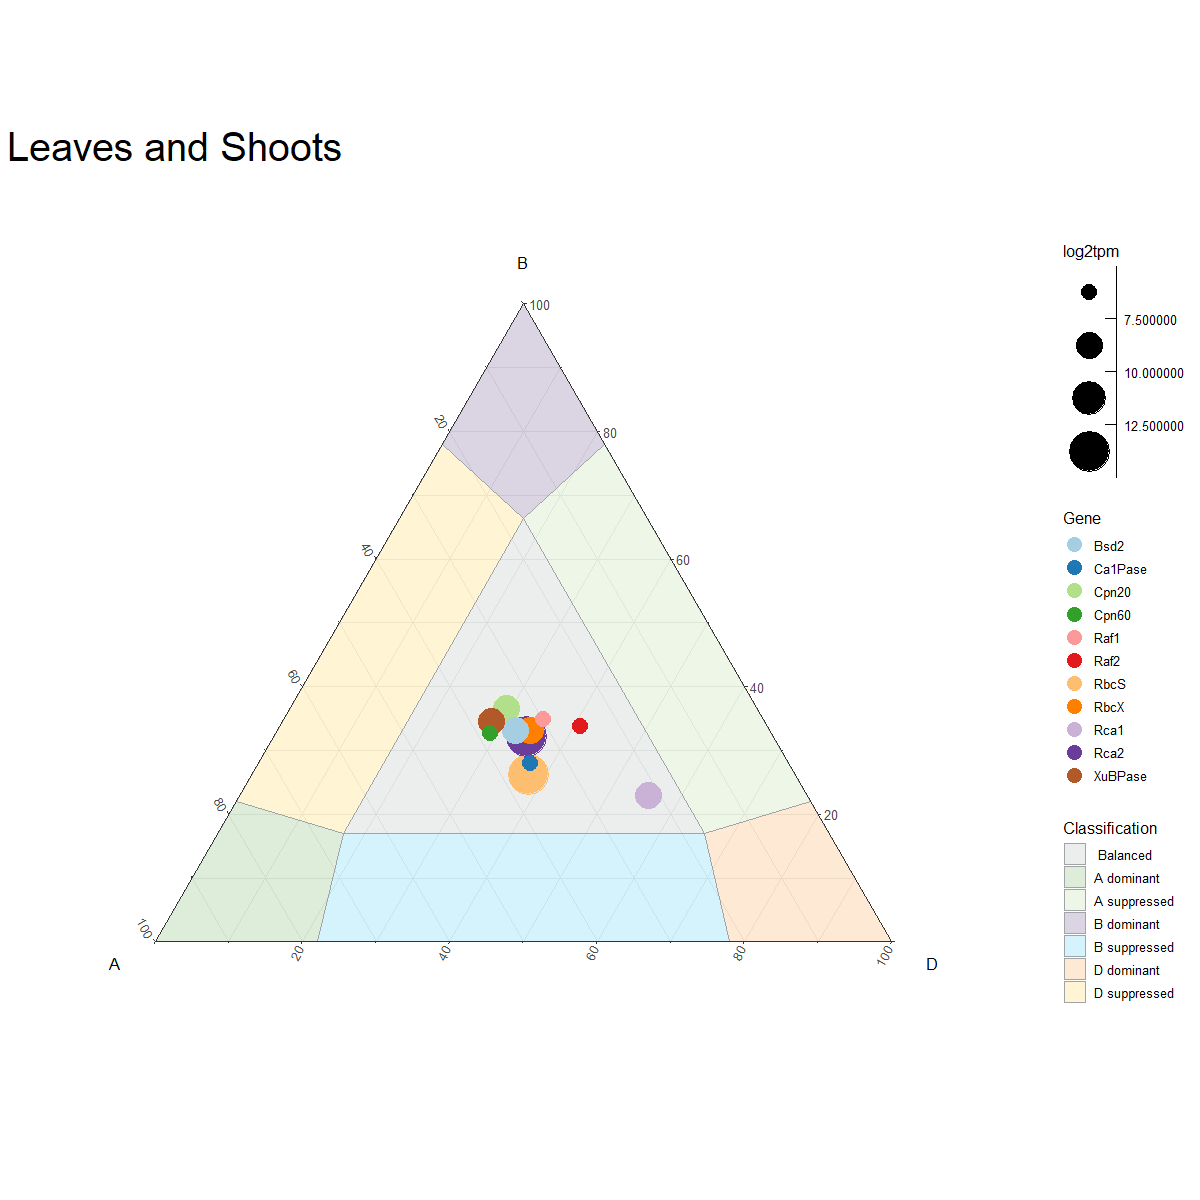
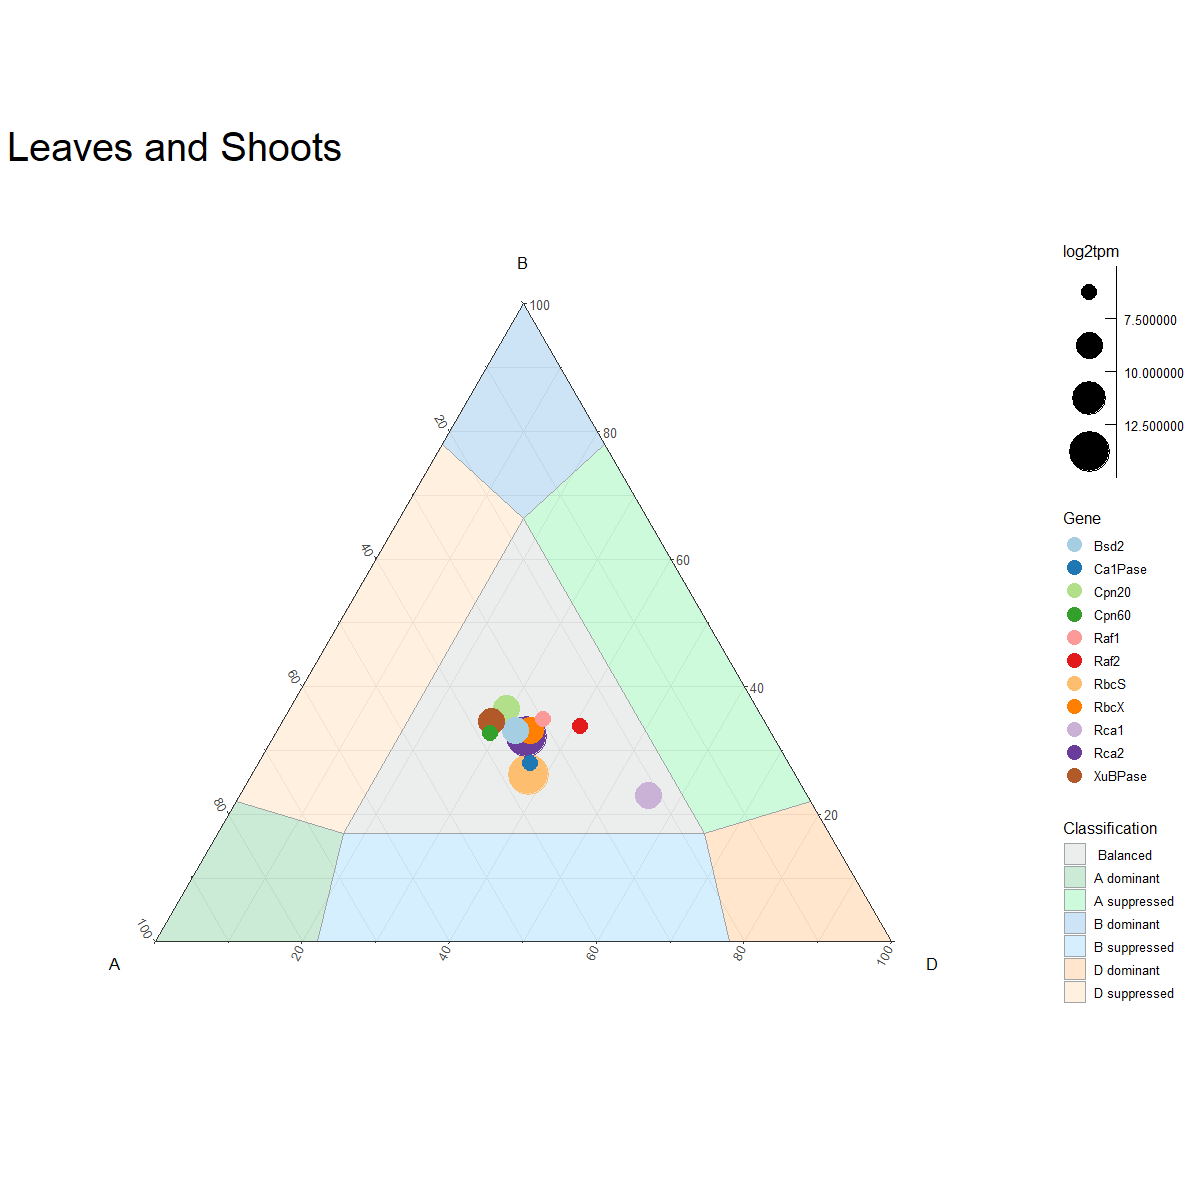
Paired Colors on the charts, Increased the size of points in legend

Changed region(s): [[0.4317, 0.37, 0.6783, 0.7092], [0.8633, 0.74, 0.925, 0.7708]]

diff --git a/Wheat-Rubiscosome-Expression-Balance-Report.md b/Wheat-Rubiscosome-Expression-Balance-Report.md
@@ -391,8 +391,8 @@ base <- ggtern(data=df,aes(A,B,D)) +
 ``` r
 LeavesShoots <- ggtern(data=df,aes(A,B,D)) +
   geom_polygon(aes(fill=Label,group=Label),color="#A0A4A7",alpha=0.20) +
-   scale_fill_manual(values=c("#A0A4A7", "#57A343", "#A8D38C", "#4B2B75",
-                              "#27C4F4", "#F9932F", "#FECF29" )) +
+   scale_fill_manual(values=c("#A0A4A7", "#009933", "#00E64D", "#007ACC",
+                              "#33ADFF", "#FF8000", "#FFB366")) +
   geom_point(data=Rubiscosome_mean_leaf%>%
                arrange(desc(log2tpm)),
              aes(A,B,D, 
@@ -424,8 +424,8 @@ LeavesShoots
 ``` r
 Spike <- ggtern(data=df,aes(A,B,D)) +
   geom_polygon(aes(fill=Label,group=Label),color="#A0A4A7",alpha=0.20) +
-   scale_fill_manual(values=c("#A0A4A7", "#57A343", "#A8D38C", "#4B2B75",
-                              "#27C4F4", "#F9932F", "#FECF29" )) +
+   scale_fill_manual(values=c("#A0A4A7", "#009933", "#00E64D", "#007ACC",
+                              "#33ADFF", "#FF8000", "#FFB366")) +
   geom_point(data=Rubiscosome_mean_spike %>%
                arrange(desc(log2tpm)),
              aes(A,B,D, 
@@ -456,9 +456,9 @@ Spike
 
 ``` r
 HeatStress <- ggtern(data=df,aes(A,B,D)) +
-  geom_polygon(aes(fill=Label,group=Label),color="#A0A4A7",alpha=0.20) +
-   scale_fill_manual(values=c("#A0A4A7", "#57A343", "#A8D38C", "#4B2B75",
-                              "#27C4F4", "#F9932F", "#FECF29" )) +
+  geom_polygon(aes(fill=Label,group=Label),color="#A0A4A7",alpha=0.2) +
+   scale_fill_manual(values=c("#A0A4A7", "#009933", "#00E64D", "#007ACC",
+                              "#33ADFF", "#FF8000", "#FFB366")) +
   geom_point(data=Rubiscosome_mean_heat_control %>%
                arrange(desc(log2tpm)),
              aes(A,B,D, 
@@ -472,7 +472,8 @@ HeatStress <- ggtern(data=df,aes(A,B,D)) +
                               "#fb9a99", "#e31a1c", "#fdbf6f", "#ff7f00",
                               "#cab2d6", "#6a3d9a", "#b15928" )) +
   theme_bw() +
-  guides(colour = guide_legend(override.aes = list(size=5))) +
+  guides(colour = guide_legend(override.aes = list(size=5)),
+         shape = guide_legend(override.aes = list(size=5))) +
   theme(plot.title = element_text(size = 30))+
   labs(title="Heat Stress",
        fill = "Classification",
